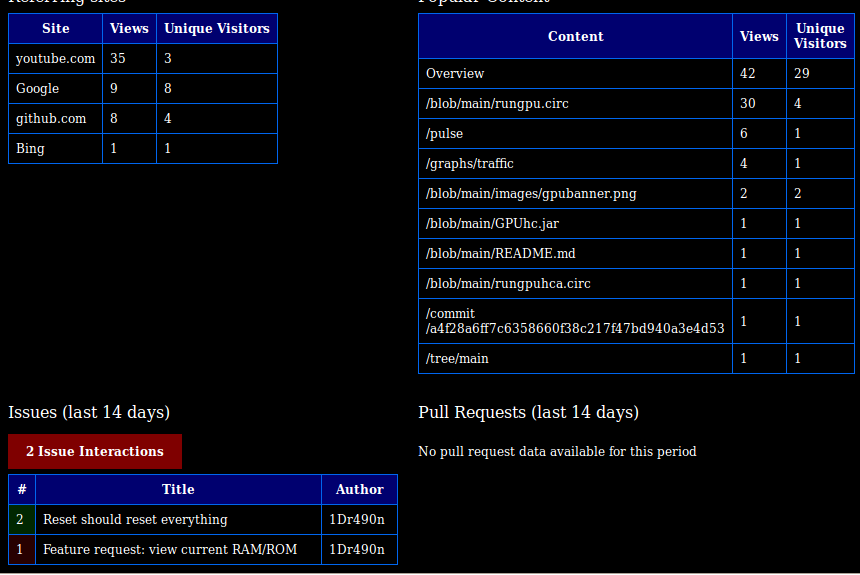
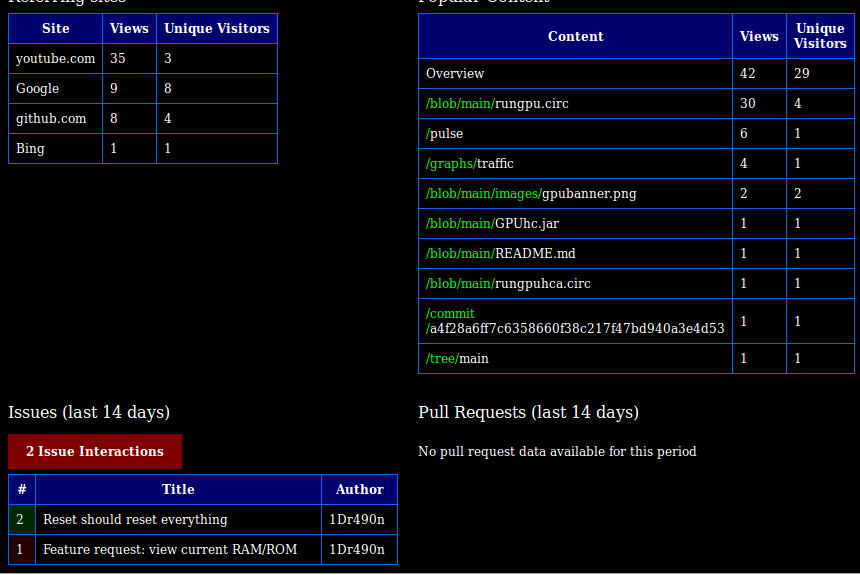
Added some color coded features

diff --git a/github-no-jquery-no-fetch.html b/github-no-jquery-no-fetch.html
@@ -99,7 +99,7 @@ GitHub Tool by Mark Craig (youtube.com/MrMcSoftware) Copyright &copy; 2023
 		var data0;
 		var cug,vug,c_g,vg,ccug,cvug,ccg,cvg,tooltip,elems;
 		var clones,views,poppaths,popref,issues,pulls;
-		var oldind=-1;
+		var oldind=-1,trafficButton,colorCTButton=true;
 		var traffic;
 
 		var me="";
@@ -131,6 +131,7 @@ GitHub Tool by Mark Craig (youtube.com/MrMcSoftware) Copyright &copy; 2023
 		if (vObj.searchrepos) { document.getElementById("searchTextID").value=vObj.searchrepos; searchRepos(); }
 		if (vObj.searchusers) { document.getElementById("searchTextID").value=vObj.searchusers; searchUsers(); }
 		if (vObj.expandinput==="true") { document.getElementById("searchTextID").size=32; document.getElementById("refID").size=12; }
+		if (vObj.colorcodetrafficbutton==="false") { colorCTButton=false; }
 		}
 
 		function setKeepOnTop()
@@ -1082,7 +1083,7 @@ GitHub Tool by Mark Craig (youtube.com/MrMcSoftware) Copyright &copy; 2023
 							if (data[i].stargazers_count>0) { data1.innerHTML+="&nbsp;&nbsp;&nbsp;"+altc+"Stars: </font><a href='javascript:void(0)' onClick='getEngagementLists(\""+data[i].stargazers_url+"\",\""+data[i].name+"\",\"Stargazers\")' style='color: "+colors[4]+"' title='Click to get a list of stargazers.'>"+data[i].stargazers_count+"</a>"; }
 							//if (data[i].forks_count>0) { data1.innerHTML+="&nbsp;&nbsp;&nbsp;"+altc+"Forks: </font>"+data[i].forks_count; }
 							if (data[i].forks_count>0) { data1.innerHTML+="&nbsp;&nbsp;&nbsp;"+altc+"Forks: </font><a href='javascript:void(0)' onClick='getEngagementLists(\""+data[i].forks_url+"\",\""+data[i].name+"\",\"Forkers\")' style='color: "+colors[4]+"' title='Click to get a list of forkers.'>"+data[i].forks_count+"</a>"; }
-							if (str===me) { data1.innerHTML+="&nbsp;&nbsp;&nbsp;&nbsp;&nbsp;&nbsp;<button onclick='getTraffic(\""+me+"\",\""+data[i].name+"\")'>Traffic</button>"; }
+							if (str===me) { data1.innerHTML+="&nbsp;&nbsp;&nbsp;&nbsp;&nbsp;&nbsp;<button onclick='getTraffic(\""+me+"\",\""+data[i].name+"\",this)'>Traffic</button>"; }
 							data1.innerHTML+="<br>";
 							if (data[i].topics.length>0)
 								{
@@ -1461,6 +1462,19 @@ GitHub Tool by Mark Craig (youtube.com/MrMcSoftware) Copyright &copy; 2023
 			if ((request.status>=200)&&(request.status<400))
 				{
 				clones=request.response;
+				if (colorCTButton)
+					{
+					var wasCloned=false;
+					var i;
+					for (i=7;i<14;i++) { if (clones.clones[i].count>0) { wasCloned=true; break; } }
+					/*
+					if (wasCloned) { trafficButton.style.color="#00ff00"; }
+					else { trafficButton.style.color="#ff0000"; }
+					trafficButton.style.backgroundColor="#000000";
+					*/
+					if (wasCloned) { trafficButton.style.color="#20ff20"; trafficButton.style.backgroundColor="#002700"; }
+					else { trafficButton.style.color="#ff2022"; trafficButton.style.backgroundColor="#270000"; }
+					}
 				//console.log(clones);
 				plotGraph(ccg,0);
 				plotGraph(ccug,1);
@@ -1580,7 +1594,7 @@ GitHub Tool by Mark Craig (youtube.com/MrMcSoftware) Copyright &copy; 2023
 		if (pat!=="") { request.setRequestHeader("Authorization", "Bearer "+pat); }
 		request.onload=function()
 			{
-			pulls=request.response;
+			if (request.response.items) { pulls=request.response.items; }
 			console.log(pulls);
 			displayPulls();
 			};
@@ -1793,7 +1807,9 @@ GitHub Tool by Mark Craig (youtube.com/MrMcSoftware) Copyright &copy; 2023
 		html+="<tr><th class='tth'>Content</th><th class='tth'>Views</th><th class='tth'>Unique Visitors</th></tr>";
 		for (i=0;i<poppaths.length;i++)
 			{
-			html+="<tr><td title='"+poppaths[i].path+"' class='ttd'>"+poppaths[i].title+"</td><td class='ttd'>"+poppaths[i].count+"</td><td class='ttd'>"+poppaths[i].uniques+"</td></tr>";
+			var lin=poppaths[i].title.lastIndexOf("/")+1;
+			var paths="<span style='color: #00ff00'>"+poppaths[i].title.substring(0,lin)+"</span>"+poppaths[i].title.substring(lin);
+			html+="<tr><td title='"+poppaths[i].path+"' class='ttd'>"+paths+"</td><td class='ttd'>"+poppaths[i].count+"</td><td class='ttd'>"+poppaths[i].uniques+"</td></tr>";
 			}
 		html+="</table>";
 		if (poppaths.length===0) { html+="<br>No popular content data available for this period"; }
@@ -1808,6 +1824,7 @@ GitHub Tool by Mark Craig (youtube.com/MrMcSoftware) Copyright &copy; 2023
 		if (traffic)
 			{
 			clones=undefined; views=undefined;
+			poppaths=[]; popref=[]; issues=[]; pulls=[];
 			html='<!DOCTYPE html><html><title>'+name+'</title><style>body { background-color: black; color: white; } .ttd { border: 1px solid #06e; border-collapse: collapse; } .ttdo { background-color: #270000; border: 1px solid #06e; border-collapse: collapse; } .ttdc { background-color: #002700; border: 1px solid #06e; border-collapse: collapse; } .tth { background-color: #00006F; border: 1px solid #06e; border-collapse: collapse; } .tfont { font-size: 12px; } .container { display: flex; flex-direction: row; } .tleft { display: flex; width: 410px; flex-direction: column; } .tright { display: flex; width: 410px; flex-direction: column; } .tooltip { position: absolute; display: none; background: #00007f; border: 1px solid #00bfff; padding: 5px; z-index: 1000; color: white; box-shadow: 7px 7px 7px rgba(0,0,0,0.75); border-radius: 8px; }</style><body><center><h2>'+name+'</h2></center>';
 			html+='<div id="graphToolTipID" class="tooltip"></div><div class="container"><div class="tleft"><div style="padding: 10px 0px 7px 0px;">Clones (last 14 days)</div><div><canvas id="cloneGraphID" width=360 height=200></div><div style="padding: 10px 0px 7px 0px;">Visitors (last 14 days)</div><div><canvas id="viewsGraphID" width=360 height=200></div><div style="padding: 10px 0px 7px 0px;">Referring sites</div><div id="refSitesID"></div></div><div class="tright"><div style="padding: 10px 0px 7px 0px;"><font color=#000000>Clones (last 14 days)</font></div><div><canvas id="cloneUniqueGraphID" width=360 height=200></div><div style="padding: 10px 0px 7px 0px;"><font color=#000000>Visitors (last 14 days)</font></div><div><canvas id="viewsUniqueGraphID" width=360 height=200></div><div style="padding: 10px 0px 7px 0px;">Popular Content</div><div id="popContentsID"></div></div></div>';
 			html+='<br><div class="container"><div class="tleft"><div style="padding: 10px 0px 7px 0px;">Issues (last 14 days)</div><div id="issues14DaysID"></div></div><div class="tright"><div style="padding: 10px 0px 7px 0px;">Pull Requests (last 14 days)</div><div id="pulls14DaysID"></div></div></div>';
@@ -1844,18 +1861,19 @@ GitHub Tool by Mark Craig (youtube.com/MrMcSoftware) Copyright &copy; 2023
 			}
 		}
 
-		function getTrafficPat(user,reponame)
+		function getTrafficPat(user,reponame,elem)
 		{
 		pat=prompt("Please enter your required Personal Access Token");
 		if (pat!==null)
 			{
-			getTraffic(user,reponame);
+			getTraffic(user,reponame,elem);
 			}
 		}
 
-		function getTraffic(user,reponame)
+		function getTraffic(user,reponame,elem)
 		{
-		if (pat==="") { getTrafficPat(user,reponame); return; }
+		if (pat==="") { getTrafficPat(user,reponame,elem); return; }
+		trafficButton=elem;
 		setupTraffic(reponame);
 		getClonesData("https://api.github.com/repos/"+user+"/"+reponame+"/traffic/clones");
 		getViewsData("https://api.github.com/repos/"+user+"/"+reponame+"/traffic/views");

diff --git a/github.html b/github.html
@@ -98,7 +98,7 @@ GitHub Tool by Mark Craig (youtube.com/MrMcSoftware) Copyright &copy; 2023
 		var noforks=false;
 		var cug,vug,c_g,vg,ccug,cvug,ccg,cvg,tooltip,elems;
 		var clones,views,poppaths,popref,issues,pulls;
-		var oldind=-1;
+		var oldind=-1,trafficButton,colorCTButton=true;
 		var traffic;
 
 		var me="";
@@ -129,6 +129,7 @@ GitHub Tool by Mark Craig (youtube.com/MrMcSoftware) Copyright &copy; 2023
 		if (vObj.searchrepos) { document.getElementById("searchTextID").value=vObj.searchrepos; searchRepos(); }
 		if (vObj.searchusers) { document.getElementById("searchTextID").value=vObj.searchusers; searchUsers(); }
 		if (vObj.expandinput==="true") { document.getElementById("searchTextID").size=32; document.getElementById("refID").size=12; }
+		if (vObj.colorcodetrafficbutton==="false") { colorCTButton=false; }
 		}
 
 /*
@@ -887,7 +888,7 @@ GitHub Tool by Mark Craig (youtube.com/MrMcSoftware) Copyright &copy; 2023
 				if (data[i].stargazers_count>0) { $("#data-1").append("&nbsp;&nbsp;&nbsp;"+altc+"Stars: </font><a href='javascript:void(0)' onClick='getEngagementLists(\""+data[i].stargazers_url+"\",\""+data[i].name+"\",\"Stargazers\")' style='color: "+colors[4]+"' title='Click to get a list of stargazers.'>"+data[i].stargazers_count+"</a>"); }
 				//if (data[i].forks_count>0) { $("#data-1").append("&nbsp;&nbsp;&nbsp;"+altc+"Forks: </font>"+data[i].forks_count); }
 				if (data[i].forks_count>0) { $("#data-1").append("&nbsp;&nbsp;&nbsp;"+altc+"Forks: </font><a href='javascript:void(0)' onClick='getEngagementLists(\""+data[i].forks_url+"\",\""+data[i].name+"\",\"Forkers\")' style='color: "+colors[4]+"' title='Click to get a list of forkers.'>"+data[i].forks_count+"</a>"); }
-				if (str===me) { $("#data-1").append("&nbsp;&nbsp;&nbsp;&nbsp;&nbsp;&nbsp;<button onclick='getTraffic(\""+me+"\",\""+data[i].name+"\")'>Traffic</button>"); }
+				if (str===me) { $("#data-1").append("&nbsp;&nbsp;&nbsp;&nbsp;&nbsp;&nbsp;<button onclick='getTraffic(\""+me+"\",\""+data[i].name+"\",this)'>Traffic</button>"); }
 				$("#data-1").append("<br>");
 				if (data[i].topics.length>0)
 					{
@@ -1149,6 +1150,19 @@ GitHub Tool by Mark Craig (youtube.com/MrMcSoftware) Copyright &copy; 2023
 		function(data)
 		{
 		clones=data;
+		if (colorCTButton)
+			{
+			var wasCloned=false;
+			var i;
+			for (i=7;i<14;i++) { if (clones.clones[i].count>0) { wasCloned=true; break; } }
+			/*
+			if (wasCloned) { trafficButton.style.color="#00ff00"; }
+			else { trafficButton.style.color="#ff0000"; }
+			trafficButton.style.backgroundColor="#000000";
+			*/
+			if (wasCloned) { trafficButton.style.color="#20ff20"; trafficButton.style.backgroundColor="#002700"; }
+			else { trafficButton.style.color="#ff2022"; trafficButton.style.backgroundColor="#270000"; }
+			}
 		//console.log(clones);
 		plotGraph(ccg,0);
 		plotGraph(ccug,1);
@@ -1446,7 +1460,9 @@ GitHub Tool by Mark Craig (youtube.com/MrMcSoftware) Copyright &copy; 2023
 		html+="<tr><th class='tth'>Content</th><th class='tth'>Views</th><th class='tth'>Unique Visitors</th></tr>";
 		for (i=0;i<poppaths.length;i++)
 			{
-			html+="<tr><td title='"+poppaths[i].path+"' class='ttd'>"+poppaths[i].title+"</td><td class='ttd'>"+poppaths[i].count+"</td><td class='ttd'>"+poppaths[i].uniques+"</td></tr>";
+			var lin=poppaths[i].title.lastIndexOf("/")+1;
+			var paths="<span style='color: #00ff00'>"+poppaths[i].title.substring(0,lin)+"</span>"+poppaths[i].title.substring(lin);
+			html+="<tr><td title='"+poppaths[i].path+"' class='ttd'>"+paths+"</td><td class='ttd'>"+poppaths[i].count+"</td><td class='ttd'>"+poppaths[i].uniques+"</td></tr>";
 			}
 		html+="</table>";
 		if (poppaths.length===0) { html+="<br>No popular content data available for this period"; }
@@ -1461,6 +1477,7 @@ GitHub Tool by Mark Craig (youtube.com/MrMcSoftware) Copyright &copy; 2023
 		if (traffic)
 			{
 			clones=undefined; views=undefined;
+			poppaths=[]; popref=[]; issues=[]; pulls=[];
 			html='<!DOCTYPE html><html><title>'+name+'</title><style>body { background-color: black; color: white; } .ttd { border: 1px solid #06e; border-collapse: collapse; } .ttdo { background-color: #270000; border: 1px solid #06e; border-collapse: collapse; } .ttdc { background-color: #002700; border: 1px solid #06e; border-collapse: collapse; } .tth { background-color: #00006F; border: 1px solid #06e; border-collapse: collapse; } .tfont { font-size: 12px; } .container { display: flex; flex-direction: row; } .tleft { display: flex; width: 410px; flex-direction: column; } .tright { display: flex; width: 410px; flex-direction: column; } .tooltip { position: absolute; display: none; background: #00007f; border: 1px solid #00bfff; padding: 5px; z-index: 1000; color: white; box-shadow: 7px 7px 7px rgba(0,0,0,0.75); border-radius: 8px; }</style><body><center><h2>'+name+'</h2></center>';
 			html+='<div id="graphToolTipID" class="tooltip"></div><div class="container"><div class="tleft"><div style="padding: 10px 0px 7px 0px;">Clones (last 14 days)</div><div><canvas id="cloneGraphID" width=360 height=200></div><div style="padding: 10px 0px 7px 0px;">Visitors (last 14 days)</div><div><canvas id="viewsGraphID" width=360 height=200></div><div style="padding: 10px 0px 7px 0px;">Referring sites</div><div id="refSitesID"></div></div><div class="tright"><div style="padding: 10px 0px 7px 0px;"><font color=#000000>Clones (last 14 days)</font></div><div><canvas id="cloneUniqueGraphID" width=360 height=200></div><div style="padding: 10px 0px 7px 0px;"><font color=#000000>Visitors (last 14 days)</font></div><div><canvas id="viewsUniqueGraphID" width=360 height=200></div><div style="padding: 10px 0px 7px 0px;">Popular Content</div><div id="popContentsID"></div></div></div>';
 			html+='<br><div class="container"><div class="tleft"><div style="padding: 10px 0px 7px 0px;">Issues (last 14 days)</div><div id="issues14DaysID"></div></div><div class="tright"><div style="padding: 10px 0px 7px 0px;">Pull Requests (last 14 days)</div><div id="pulls14DaysID"></div></div></div>';
@@ -1497,19 +1514,20 @@ GitHub Tool by Mark Craig (youtube.com/MrMcSoftware) Copyright &copy; 2023
 			}
 		}
 
-		function getTrafficPat(user,reponame)
+		function getTrafficPat(user,reponame,elem)
 		{
 		pat=prompt("Please enter your required Personal Access Token");
 		if (pat!==null)
 			{
 			$.ajaxSetup({headers: { "Authorization":"Bearer "+pat }});
-			getTraffic(user,reponame);
+			getTraffic(user,reponame,elem);
 			}
 		}
 
-		function getTraffic(user,reponame)
+		function getTraffic(user,reponame,elem)
 		{
-		if (pat==="") { getTrafficPat(user,reponame); return; }
+		if (pat==="") { getTrafficPat(user,reponame,elem); return; }
+		trafficButton=elem;
 		setupTraffic(reponame);
 		getClonesData("https://api.github.com/repos/"+user+"/"+reponame+"/traffic/clones");
 		getViewsData("https://api.github.com/repos/"+user+"/"+reponame+"/traffic/views");

diff --git a/index.html b/index.html
@@ -98,7 +98,7 @@ GitHub Tool by Mark Craig (youtube.com/MrMcSoftware) Copyright &copy; 2023
 		var noforks=false;
 		var cug,vug,c_g,vg,ccug,cvug,ccg,cvg,tooltip,elems;
 		var clones,views,poppaths,popref,issues,pulls;
-		var oldind=-1;
+		var oldind=-1,trafficButton,colorCTButton=true;
 		var traffic;
 
 		var me="";
@@ -129,6 +129,7 @@ GitHub Tool by Mark Craig (youtube.com/MrMcSoftware) Copyright &copy; 2023
 		if (vObj.searchrepos) { document.getElementById("searchTextID").value=vObj.searchrepos; searchRepos(); }
 		if (vObj.searchusers) { document.getElementById("searchTextID").value=vObj.searchusers; searchUsers(); }
 		if (vObj.expandinput==="true") { document.getElementById("searchTextID").size=32; document.getElementById("refID").size=12; }
+		if (vObj.colorcodetrafficbutton==="false") { colorCTButton=false; }
 		}
 
 /*
@@ -887,7 +888,7 @@ GitHub Tool by Mark Craig (youtube.com/MrMcSoftware) Copyright &copy; 2023
 				if (data[i].stargazers_count>0) { $("#data-1").append("&nbsp;&nbsp;&nbsp;"+altc+"Stars: </font><a href='javascript:void(0)' onClick='getEngagementLists(\""+data[i].stargazers_url+"\",\""+data[i].name+"\",\"Stargazers\")' style='color: "+colors[4]+"' title='Click to get a list of stargazers.'>"+data[i].stargazers_count+"</a>"); }
 				//if (data[i].forks_count>0) { $("#data-1").append("&nbsp;&nbsp;&nbsp;"+altc+"Forks: </font>"+data[i].forks_count); }
 				if (data[i].forks_count>0) { $("#data-1").append("&nbsp;&nbsp;&nbsp;"+altc+"Forks: </font><a href='javascript:void(0)' onClick='getEngagementLists(\""+data[i].forks_url+"\",\""+data[i].name+"\",\"Forkers\")' style='color: "+colors[4]+"' title='Click to get a list of forkers.'>"+data[i].forks_count+"</a>"); }
-				if (str===me) { $("#data-1").append("&nbsp;&nbsp;&nbsp;&nbsp;&nbsp;&nbsp;<button onclick='getTraffic(\""+me+"\",\""+data[i].name+"\")'>Traffic</button>"); }
+				if (str===me) { $("#data-1").append("&nbsp;&nbsp;&nbsp;&nbsp;&nbsp;&nbsp;<button onclick='getTraffic(\""+me+"\",\""+data[i].name+"\",this)'>Traffic</button>"); }
 				$("#data-1").append("<br>");
 				if (data[i].topics.length>0)
 					{
@@ -1149,6 +1150,19 @@ GitHub Tool by Mark Craig (youtube.com/MrMcSoftware) Copyright &copy; 2023
 		function(data)
 		{
 		clones=data;
+		if (colorCTButton)
+			{
+			var wasCloned=false;
+			var i;
+			for (i=7;i<14;i++) { if (clones.clones[i].count>0) { wasCloned=true; break; } }
+			/*
+			if (wasCloned) { trafficButton.style.color="#00ff00"; }
+			else { trafficButton.style.color="#ff0000"; }
+			trafficButton.style.backgroundColor="#000000";
+			*/
+			if (wasCloned) { trafficButton.style.color="#20ff20"; trafficButton.style.backgroundColor="#002700"; }
+			else { trafficButton.style.color="#ff2022"; trafficButton.style.backgroundColor="#270000"; }
+			}
 		//console.log(clones);
 		plotGraph(ccg,0);
 		plotGraph(ccug,1);
@@ -1446,7 +1460,9 @@ GitHub Tool by Mark Craig (youtube.com/MrMcSoftware) Copyright &copy; 2023
 		html+="<tr><th class='tth'>Content</th><th class='tth'>Views</th><th class='tth'>Unique Visitors</th></tr>";
 		for (i=0;i<poppaths.length;i++)
 			{
-			html+="<tr><td title='"+poppaths[i].path+"' class='ttd'>"+poppaths[i].title+"</td><td class='ttd'>"+poppaths[i].count+"</td><td class='ttd'>"+poppaths[i].uniques+"</td></tr>";
+			var lin=poppaths[i].title.lastIndexOf("/")+1;
+			var paths="<span style='color: #00ff00'>"+poppaths[i].title.substring(0,lin)+"</span>"+poppaths[i].title.substring(lin);
+			html+="<tr><td title='"+poppaths[i].path+"' class='ttd'>"+paths+"</td><td class='ttd'>"+poppaths[i].count+"</td><td class='ttd'>"+poppaths[i].uniques+"</td></tr>";
 			}
 		html+="</table>";
 		if (poppaths.length===0) { html+="<br>No popular content data available for this period"; }
@@ -1461,6 +1477,7 @@ GitHub Tool by Mark Craig (youtube.com/MrMcSoftware) Copyright &copy; 2023
 		if (traffic)
 			{
 			clones=undefined; views=undefined;
+			poppaths=[]; popref=[]; issues=[]; pulls=[];
 			html='<!DOCTYPE html><html><title>'+name+'</title><style>body { background-color: black; color: white; } .ttd { border: 1px solid #06e; border-collapse: collapse; } .ttdo { background-color: #270000; border: 1px solid #06e; border-collapse: collapse; } .ttdc { background-color: #002700; border: 1px solid #06e; border-collapse: collapse; } .tth { background-color: #00006F; border: 1px solid #06e; border-collapse: collapse; } .tfont { font-size: 12px; } .container { display: flex; flex-direction: row; } .tleft { display: flex; width: 410px; flex-direction: column; } .tright { display: flex; width: 410px; flex-direction: column; } .tooltip { position: absolute; display: none; background: #00007f; border: 1px solid #00bfff; padding: 5px; z-index: 1000; color: white; box-shadow: 7px 7px 7px rgba(0,0,0,0.75); border-radius: 8px; }</style><body><center><h2>'+name+'</h2></center>';
 			html+='<div id="graphToolTipID" class="tooltip"></div><div class="container"><div class="tleft"><div style="padding: 10px 0px 7px 0px;">Clones (last 14 days)</div><div><canvas id="cloneGraphID" width=360 height=200></div><div style="padding: 10px 0px 7px 0px;">Visitors (last 14 days)</div><div><canvas id="viewsGraphID" width=360 height=200></div><div style="padding: 10px 0px 7px 0px;">Referring sites</div><div id="refSitesID"></div></div><div class="tright"><div style="padding: 10px 0px 7px 0px;"><font color=#000000>Clones (last 14 days)</font></div><div><canvas id="cloneUniqueGraphID" width=360 height=200></div><div style="padding: 10px 0px 7px 0px;"><font color=#000000>Visitors (last 14 days)</font></div><div><canvas id="viewsUniqueGraphID" width=360 height=200></div><div style="padding: 10px 0px 7px 0px;">Popular Content</div><div id="popContentsID"></div></div></div>';
 			html+='<br><div class="container"><div class="tleft"><div style="padding: 10px 0px 7px 0px;">Issues (last 14 days)</div><div id="issues14DaysID"></div></div><div class="tright"><div style="padding: 10px 0px 7px 0px;">Pull Requests (last 14 days)</div><div id="pulls14DaysID"></div></div></div>';
@@ -1497,19 +1514,20 @@ GitHub Tool by Mark Craig (youtube.com/MrMcSoftware) Copyright &copy; 2023
 			}
 		}
 
-		function getTrafficPat(user,reponame)
+		function getTrafficPat(user,reponame,elem)
 		{
 		pat=prompt("Please enter your required Personal Access Token");
 		if (pat!==null)
 			{
 			$.ajaxSetup({headers: { "Authorization":"Bearer "+pat }});
-			getTraffic(user,reponame);
+			getTraffic(user,reponame,elem);
 			}
 		}
 
-		function getTraffic(user,reponame)
+		function getTraffic(user,reponame,elem)
 		{
-		if (pat==="") { getTrafficPat(user,reponame); return; }
+		if (pat==="") { getTrafficPat(user,reponame,elem); return; }
+		trafficButton=elem;
 		setupTraffic(reponame);
 		getClonesData("https://api.github.com/repos/"+user+"/"+reponame+"/traffic/clones");
 		getViewsData("https://api.github.com/repos/"+user+"/"+reponame+"/traffic/views");

diff --git a/github-no-jquery.html b/github-no-jquery.html
@@ -99,7 +99,7 @@ GitHub Tool by Mark Craig (youtube.com/MrMcSoftware) Copyright &copy; 2023
 		var data0;
 		var cug,vug,c_g,vg,ccug,cvug,ccg,cvg,tooltip,elems;
 		var clones,views,poppaths,popref,issues,pulls;
-		var oldind=-1;
+		var oldind=-1,trafficButton,colorCTButton=true;
 		var traffic;
 		var headers={};
 
@@ -132,6 +132,7 @@ GitHub Tool by Mark Craig (youtube.com/MrMcSoftware) Copyright &copy; 2023
 		if (vObj.searchrepos) { document.getElementById("searchTextID").value=vObj.searchrepos; searchRepos(); }
 		if (vObj.searchusers) { document.getElementById("searchTextID").value=vObj.searchusers; searchUsers(); }
 		if (vObj.expandinput==="true") { document.getElementById("searchTextID").size=32; document.getElementById("refID").size=12; }
+		if (vObj.colorcodetrafficbutton==="false") { colorCTButton=false; }
 		}
 
 		function setKeepOnTop()
@@ -963,7 +964,7 @@ GitHub Tool by Mark Craig (youtube.com/MrMcSoftware) Copyright &copy; 2023
 				if (data[i].stargazers_count>0) { data1.innerHTML+="&nbsp;&nbsp;&nbsp;"+altc+"Stars: </font><a href='javascript:void(0)' onClick='getEngagementLists(\""+data[i].stargazers_url+"\",\""+data[i].name+"\",\"Stargazers\")' style='color: "+colors[4]+"' title='Click to get a list of stargazers.'>"+data[i].stargazers_count+"</a>"; }
 				//if (data[i].forks_count>0) { data1.innerHTML+="&nbsp;&nbsp;&nbsp;"+altc+"Forks: </font>"+data[i].forks_count; }
 				if (data[i].forks_count>0) { data1.innerHTML+="&nbsp;&nbsp;&nbsp;"+altc+"Forks: </font><a href='javascript:void(0)' onClick='getEngagementLists(\""+data[i].forks_url+"\",\""+data[i].name+"\",\"Forkers\")' style='color: "+colors[4]+"' title='Click to get a list of forkers.'>"+data[i].forks_count+"</a>"; }
-				if (str===me) { data1.innerHTML+="&nbsp;&nbsp;&nbsp;&nbsp;&nbsp;&nbsp;<button onclick='getTraffic(\""+me+"\",\""+data[i].name+"\")'>Traffic</button>"; }
+				if (str===me) { data1.innerHTML+="&nbsp;&nbsp;&nbsp;&nbsp;&nbsp;&nbsp;<button onclick='getTraffic(\""+me+"\",\""+data[i].name+"\",this)'>Traffic</button>"; }
 				data1.innerHTML+="<br>";
 				if (data[i].topics.length>0)
 					{
@@ -1256,6 +1257,19 @@ GitHub Tool by Mark Craig (youtube.com/MrMcSoftware) Copyright &copy; 2023
 			function(data)
 			{
 			clones=data;
+			if (colorCTButton)
+				{
+				var wasCloned=false;
+				var i;
+				for (i=7;i<14;i++) { if (clones.clones[i].count>0) { wasCloned=true; break; } }
+				/*
+				if (wasCloned) { trafficButton.style.color="#00ff00"; }
+				else { trafficButton.style.color="#ff0000"; }
+				trafficButton.style.backgroundColor="#000000";
+				*/
+				if (wasCloned) { trafficButton.style.color="#20ff20"; trafficButton.style.backgroundColor="#002700"; }
+				else { trafficButton.style.color="#ff2022"; trafficButton.style.backgroundColor="#270000"; }
+				}
 			//console.log(clones);
 			plotGraph(ccg,0);
 			plotGraph(ccug,1);
@@ -1568,7 +1582,9 @@ GitHub Tool by Mark Craig (youtube.com/MrMcSoftware) Copyright &copy; 2023
 		html+="<tr><th class='tth'>Content</th><th class='tth'>Views</th><th class='tth'>Unique Visitors</th></tr>";
 		for (i=0;i<poppaths.length;i++)
 			{
-			html+="<tr><td title='"+poppaths[i].path+"' class='ttd'>"+poppaths[i].title+"</td><td class='ttd'>"+poppaths[i].count+"</td><td class='ttd'>"+poppaths[i].uniques+"</td></tr>";
+			var lin=poppaths[i].title.lastIndexOf("/")+1;
+			var paths="<span style='color: #00ff00'>"+poppaths[i].title.substring(0,lin)+"</span>"+poppaths[i].title.substring(lin);
+			html+="<tr><td title='"+poppaths[i].path+"' class='ttd'>"+paths+"</td><td class='ttd'>"+poppaths[i].count+"</td><td class='ttd'>"+poppaths[i].uniques+"</td></tr>";
 			}
 		html+="</table>";
 		if (poppaths.length===0) { html+="<br>No popular content data available for this period"; }
@@ -1583,6 +1599,7 @@ GitHub Tool by Mark Craig (youtube.com/MrMcSoftware) Copyright &copy; 2023
 		if (traffic)
 			{
 			clones=undefined; views=undefined;
+			poppaths=[]; popref=[]; issues=[]; pulls=[];
 			html='<!DOCTYPE html><html><title>'+name+'</title><style>body { background-color: black; color: white; } .ttd { border: 1px solid #06e; border-collapse: collapse; } .ttdo { background-color: #270000; border: 1px solid #06e; border-collapse: collapse; } .ttdc { background-color: #002700; border: 1px solid #06e; border-collapse: collapse; } .tth { background-color: #00006F; border: 1px solid #06e; border-collapse: collapse; } .tfont { font-size: 12px; } .container { display: flex; flex-direction: row; } .tleft { display: flex; width: 410px; flex-direction: column; } .tright { display: flex; width: 410px; flex-direction: column; } .tooltip { position: absolute; display: none; background: #00007f; border: 1px solid #00bfff; padding: 5px; z-index: 1000; color: white; box-shadow: 7px 7px 7px rgba(0,0,0,0.75); border-radius: 8px; }</style><body><center><h2>'+name+'</h2></center>';
 			html+='<div id="graphToolTipID" class="tooltip"></div><div class="container"><div class="tleft"><div style="padding: 10px 0px 7px 0px;">Clones (last 14 days)</div><div><canvas id="cloneGraphID" width=360 height=200></div><div style="padding: 10px 0px 7px 0px;">Visitors (last 14 days)</div><div><canvas id="viewsGraphID" width=360 height=200></div><div style="padding: 10px 0px 7px 0px;">Referring sites</div><div id="refSitesID"></div></div><div class="tright"><div style="padding: 10px 0px 7px 0px;"><font color=#000000>Clones (last 14 days)</font></div><div><canvas id="cloneUniqueGraphID" width=360 height=200></div><div style="padding: 10px 0px 7px 0px;"><font color=#000000>Visitors (last 14 days)</font></div><div><canvas id="viewsUniqueGraphID" width=360 height=200></div><div style="padding: 10px 0px 7px 0px;">Popular Content</div><div id="popContentsID"></div></div></div>';
 			html+='<br><div class="container"><div class="tleft"><div style="padding: 10px 0px 7px 0px;">Issues (last 14 days)</div><div id="issues14DaysID"></div></div><div class="tright"><div style="padding: 10px 0px 7px 0px;">Pull Requests (last 14 days)</div><div id="pulls14DaysID"></div></div></div>';
@@ -1619,19 +1636,20 @@ GitHub Tool by Mark Craig (youtube.com/MrMcSoftware) Copyright &copy; 2023
 			}
 		}
 
-		function getTrafficPat(user,reponame)
+		function getTrafficPat(user,reponame,elem)
 		{
 		pat=prompt("Please enter your required Personal Access Token");
 		if (pat!==null)
 			{
 			headers={ "Authorization":"Bearer "+pat };
-			getTraffic(user,reponame);
+			getTraffic(user,reponame,elem);
 			}
 		}
 
-		function getTraffic(user,reponame)
+		function getTraffic(user,reponame,elem)
 		{
-		if (pat==="") { getTrafficPat(user,reponame); return; }
+		if (pat==="") { getTrafficPat(user,reponame,elem); return; }
+		trafficButton=elem;
 		setupTraffic(reponame);
 		getClonesData("https://api.github.com/repos/"+user+"/"+reponame+"/traffic/clones");
 		getViewsData("https://api.github.com/repos/"+user+"/"+reponame+"/traffic/views");

diff --git a/README.md b/README.md
@@ -75,6 +75,7 @@ you probably will need to escape the special characters, depending on your OS
   - **keepontop=false** - Don't always keep the control bar at top of screen
   - **openonly=true** - When listing repository issues or pulls, don't show closed items
   - **expandinput=true** - Expand the text input fields for wider screens
+  - **colorcodetrafficbutton=false** - Don't color code traffic button
   - **contents=`{string}`** - Display the contents of the specified ({string}) repository
   - **repo=`{string}`** - Display the contents of the specified ({string}) repository (same as **contents='{string}'**)
   - **ref=`{string}`** - Specify repository's branch, commit, or tag name if desired
@@ -296,9 +297,14 @@ Since I was forced to put authentication into these pages, I decided to add the
 equivalent of github.com's **Insights -> Traffic**.  To use this feature, add
 your username to the line in the **`github*.html`** files that contains
 **`var me="";`**.  Then when you list your repos, a **Traffic** button will
-appear on the Language/Stars/Forks line.  Here's some screenshots of this new
-feature (I think they look nicer than github.com's and they come up a lot faster
-too).
+appear on the Language/Stars/Forks line.  By default, the Traffic button will
+change color to indicate that you've viewed the analytics for that repo and
+whether there were clones in the last 7 days (green for yes, red for no).  This
+feature can be turned off by either using the URL parameter
+**colorcodetrafficbutton=false** or by editing **`github*.html`** to change
+**`colorCTButton=true`** to be **`false`** instead.  Here's some screenshots of
+the new traffic feature (I think they look nicer than github.com's and they
+come up a lot faster too).
 
 <img src="screenshottraf1.png">
 
